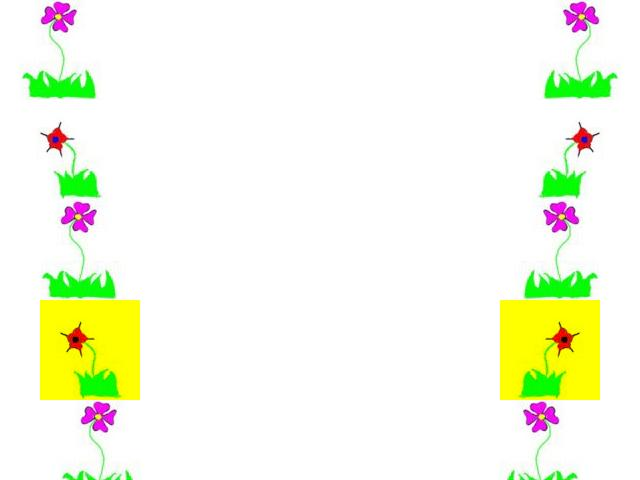
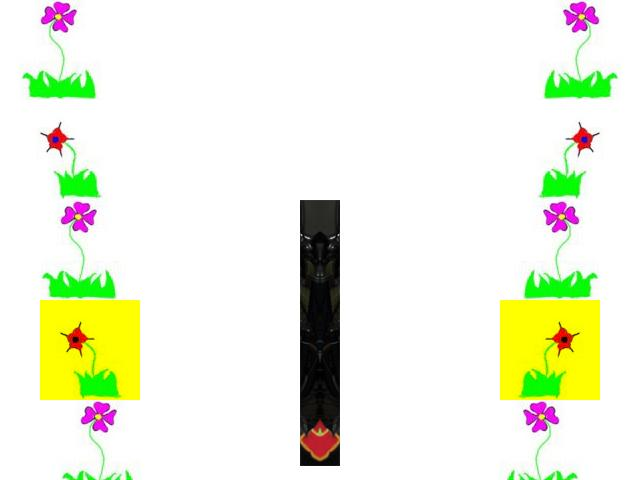
collage

Changed region(s): [[0.4688, 0.4062, 0.5312, 0.9688]]

diff --git a/pixlab/Picture.java b/pixlab/Picture.java
@@ -360,20 +360,50 @@ public class Picture extends SimplePicture
       }
     }   
   }
+  public void copy(Picture fromPic, 
+                 int startRow, int startCol,
+                 int fSR,      int fSC,
+                 int fER,      int fEC)
+  {
+    Pixel fromPixel = null;
+    Pixel toPixel = null;
+    Pixel[][] toPixels = this.getPixels2D();
+    Pixel[][] fromPixels = fromPic.getPixels2D();
+    for (int fromRow = fSR, toRow = startRow; 
+         fromRow < fER &&
+         toRow < toPixels.length; 
+         fromRow++, toRow++)
+    {
+      for (int fromCol = fSC, toCol = startCol; 
+           fromCol < fEC &&
+           toCol < toPixels[0].length;  
+           fromCol++, toCol++)
+      {
+        fromPixel = fromPixels[fromRow][fromCol];
+        toPixel = toPixels[toRow][toCol];
+        toPixel.setColor(fromPixel.getColor());
+      }
+    }   
+  }
 
   /** Method to create a collage of several pictures */
   public void createCollage()
   {
     Picture flower1 = new Picture("flower1.jpg");
     Picture flower2 = new Picture("flower2.jpg");
+    Picture msg = new Picture("jenny-red.jpg");
     this.copy(flower1,0,10);
     this.copy(flower2,100,20);
     this.copy(flower1,200,30);
+    this.copy(msg,200,150,200,300,150,300);
     Picture flowerNoBlue = new Picture(flower2);
     flowerNoBlue.zeroBlue();
     this.copy(flowerNoBlue,300,40);
     this.copy(flower1,400,50);
     this.copy(flower2,500,60);
+    Picture msgg = new Picture(msg);
+    this.copy(msgg,200,300);
+    msgg.zeroRed();
     this.mirrorVertical();
     this.write("collage.jpg");
   }

diff --git a/pixlab/PictureExplorer.java b/pixlab/PictureExplorer.java
@@ -800,7 +800,7 @@ public class PictureExplorer implements MouseMotionListener, ActionListener, Mou
    */
   public static void main( String args[])
   {
-    Picture pix = new Picture("seagull.jpg");
+    Picture pix = new Picture("msg.jpg");
     pix.explore();
   }
   
